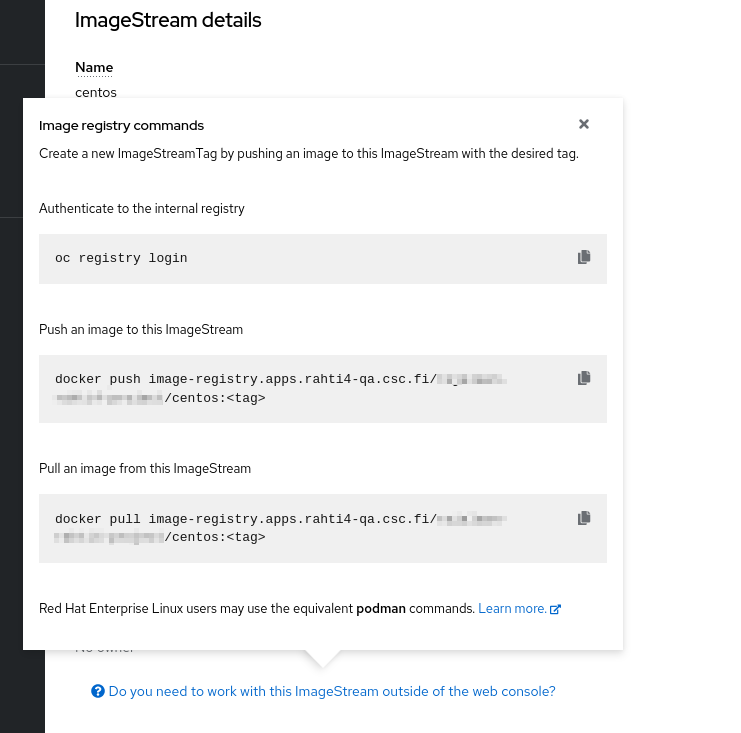
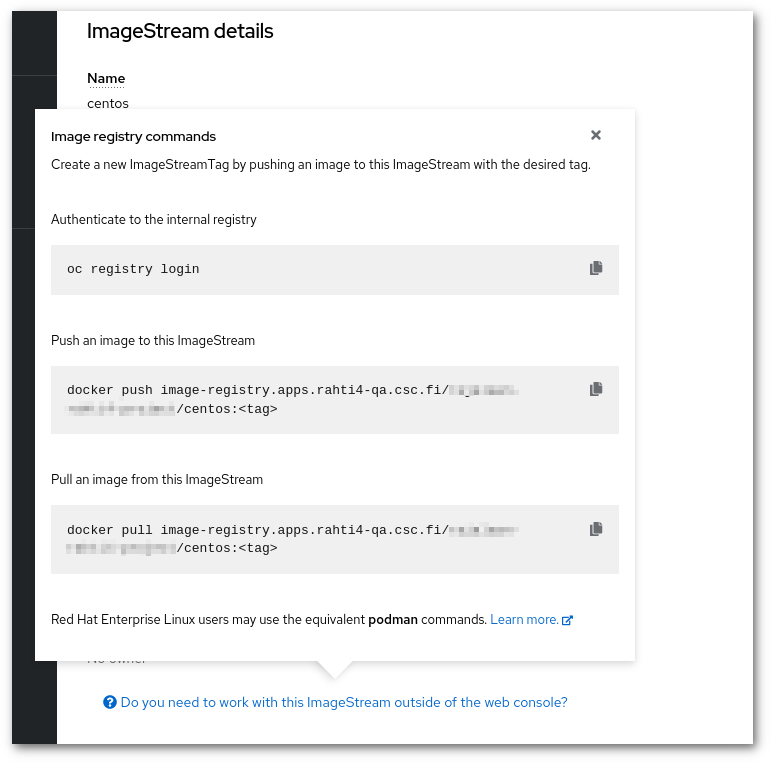
add drop shadows and pixelization to remaining rahti4 images

diff --git a/docs/cloud/rahti4/tutorials/basic-console.md b/docs/cloud/rahti4/tutorials/basic-console.md
@@ -5,19 +5,19 @@ How to set up a static web server in Rahti4.
 1. Create a project. [Instructions](../../usage/projects_and_quota/)
 
 2. In the Openshift Rahti4 web console, switch to the Developer perspective. Select _Add_ from the navigation panel. To create an application, under Developer Catalog list Select _All services_ and then search for _Apache HTTP Server_, Click the _Apache HTTP Server_, and Select _Instantiate Template_ on the pop-up window on the right.
-    ![Select-httpd](img/select-http.jpg)
-    ![Instantiate-template](img/click-template.jpg)
+    ![Select-httpd](img/select-http.png)
+    ![Instantiate-template](img/click-template.png)
 
 3. Type in the source Git repository containing the content to be
     served. Click _Create_ . Here, the sample content is used, and the application is created in the project _http-test-project_.
     ![type-in-git](img/type-git.png)
 
 4. Select _Topology_ from the navigation panel to Navigate to the newly created project and Click name of the project from the _DeploymentConfigs_ list. Select _Details_ on the pop-up window on the right. Now, the OpenShift dashboard should display information about the application.
-    ![new-project-deployment-config](img/click-deploymentConfig.jpg)
+    ![new-project-deployment-config](img/click-deploymentConfig.png)
 
  This application is available at Select _Resources_ on the pop-up window on the right under the _Routes_ list.
  [httpd-example-http-test-project.apps.rahti4-qa.csc.fi](http://httpd-example-http-test-project.apps.rahtiapp.fi)
- ![new-app-info](img/new-app-info.jpg)
+ ![new-app-info](img/new-app-info.png)
 
 OpenShift processed a template that provisioned
 various objects, such as _Pods_, _Services_, _Routes_, _DeploymentConfigs_, and
